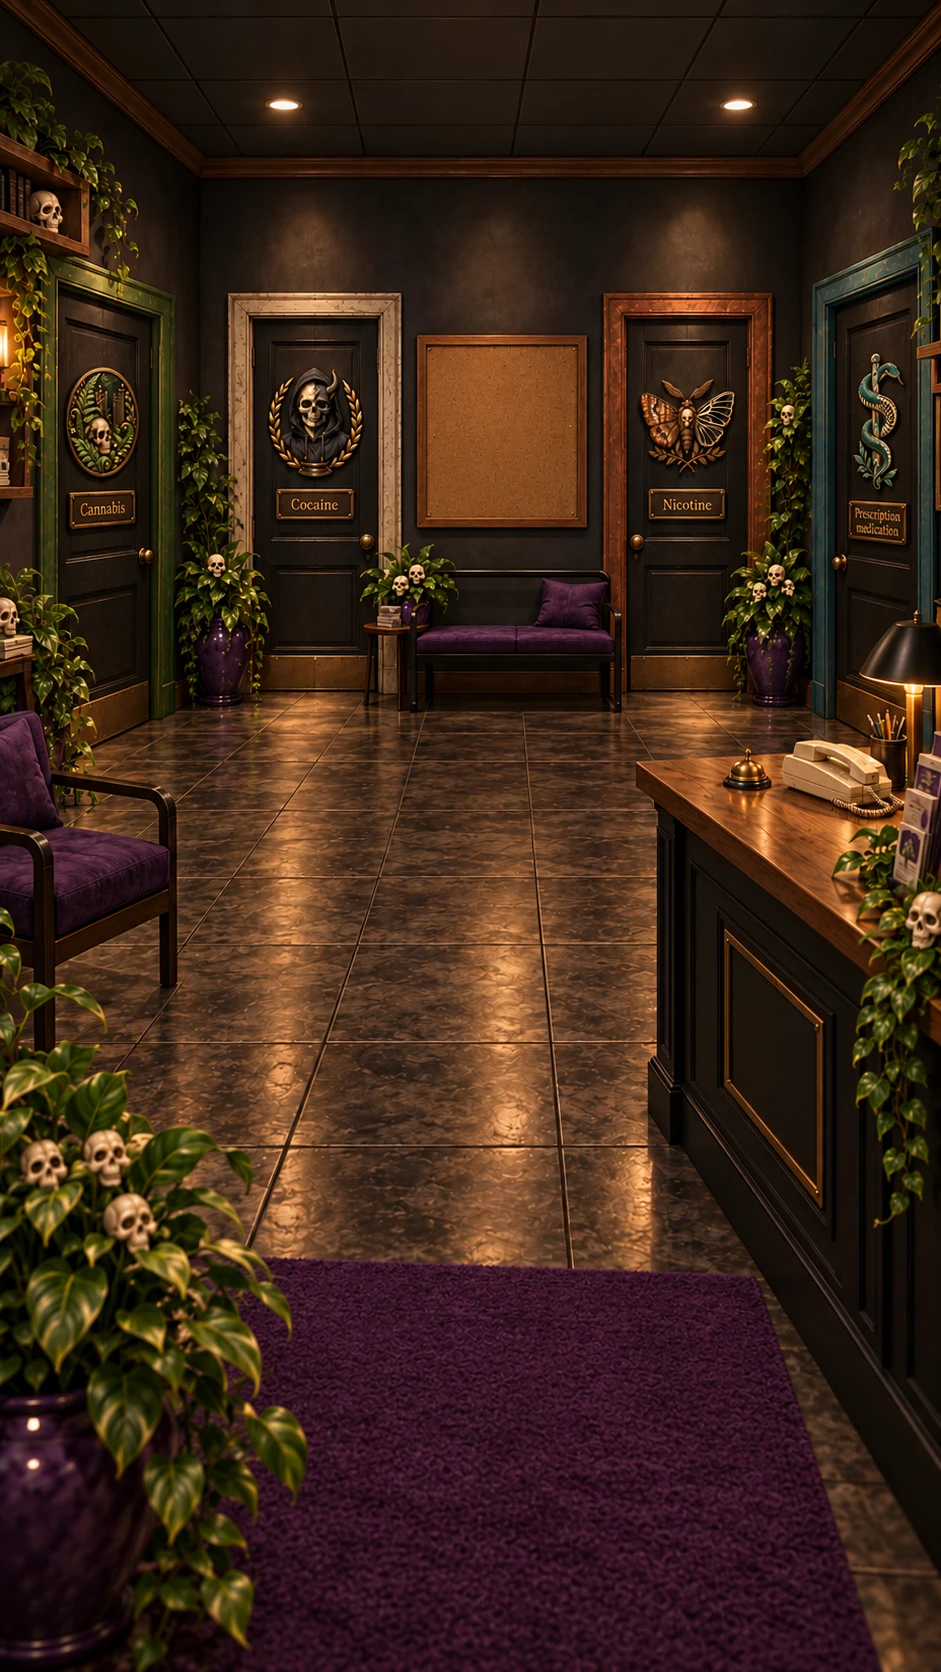
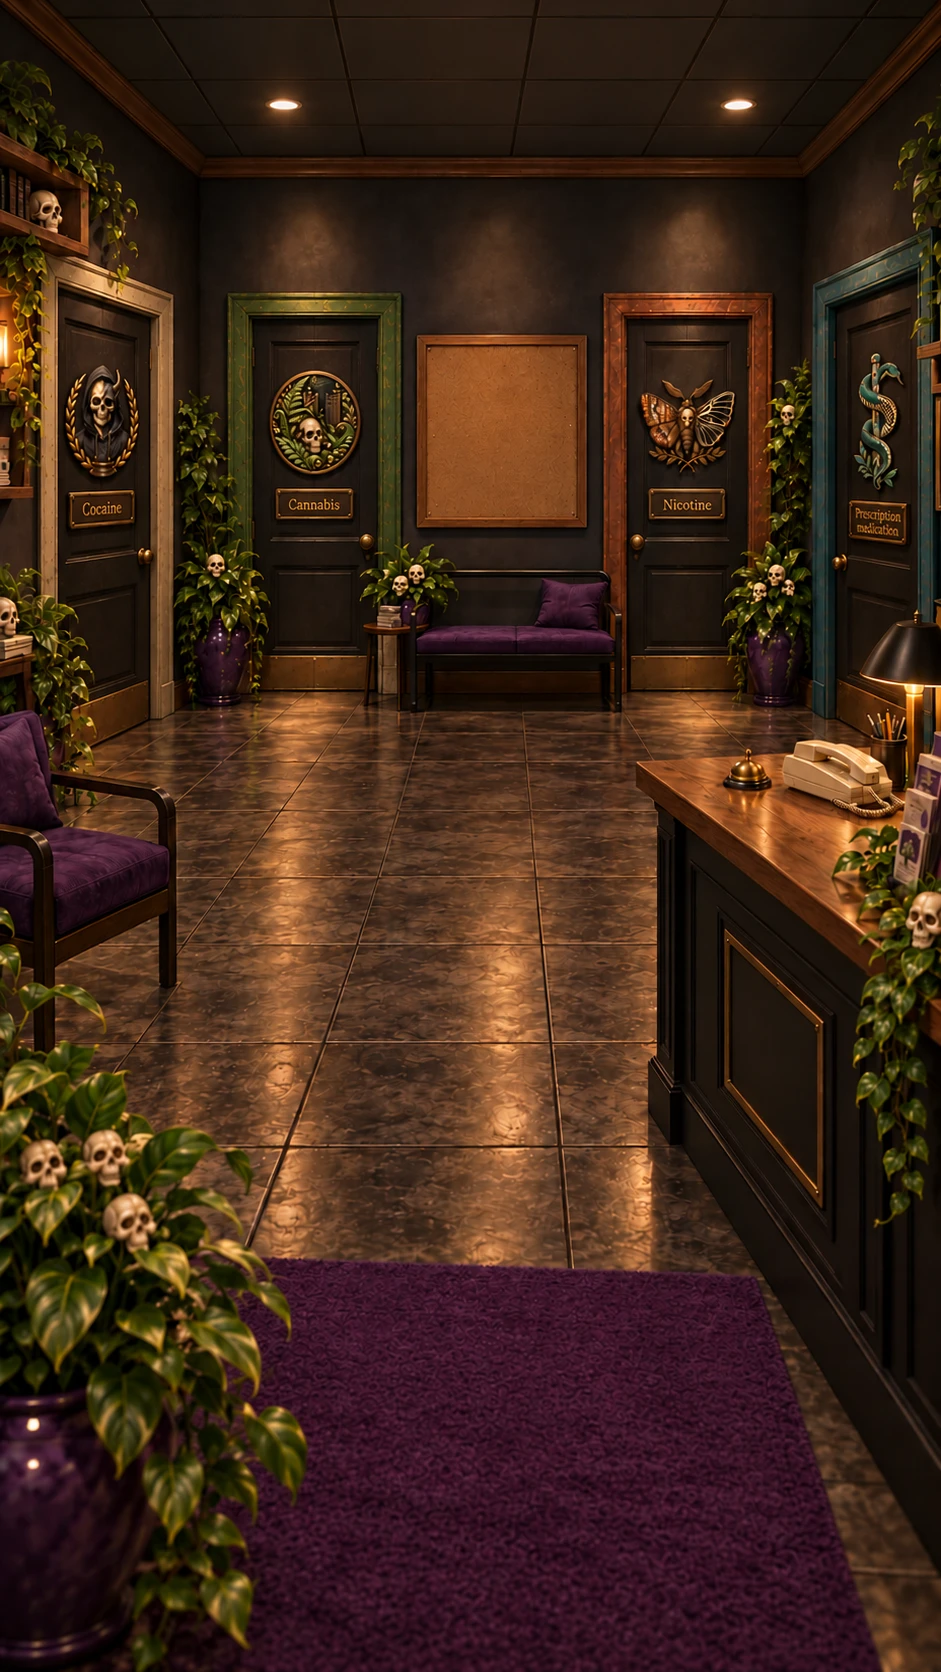
Reception reorder: chronological doors (Cocaine, Cannabis, Nicotine, Rx)
Swapped the two left doors so the reception reads left→right in era
order — Cocano (03-07), Cannano (08-12), Nicono (13-17), Medano
(18-22) — and keeps cannabis + nicotine adjacent. New art in; rc_cocaine
now far-left, rc_cannabis second (each still routes to its own preview).
Glow boxes rough — re-tune in the editor.

Claude-Session: https://claude.ai/code/session_01KKhQMghLUspva6Yzs31jQ3

diff --git a/src/data/hubScene.ts b/src/data/hubScene.ts
@@ -598,12 +598,11 @@ export const HUB_NODES: Record<string, HubNode> = {
     fit: "screen",
     back: "outside",
     hotspots: [
-      // New art — the sibling crests are baked onto the doors now, so no logo
-      // inlays; just the four door glows (relocated) + the central board. Rough
-      // boxes for the new layout — relocate onto the doors in the editor and
-      // export, then I bake the finals.
-      { id: "rc_cannabis", caption: "Cannabis · Cannano — step inside", kind: "glow", tint: "purple", interaction: "destination", glowScale: 0.4, glowMax: 0.4, anchor: { x: 0.5, y: 0.5 }, x: 0.03, y: 0.17, w: 0.14, h: 0.23, action: { kind: "node", node: "cannano_preview" } },
-      { id: "rc_cocaine", caption: "Cocaine · Cocano — step inside", kind: "glow", tint: "purple", interaction: "destination", glowScale: 0.4, glowMax: 0.4, anchor: { x: 0.5, y: 0.5 }, x: 0.26, y: 0.17, w: 0.14, h: 0.22, action: { kind: "node", node: "cocano_preview" } },
+      // New art, doors reordered chronologically L→R: Cocaine, Cannabis,
+      // Nicotine, Prescription. Crests baked onto the doors, so just the four
+      // glows + the board. Rough boxes — relocate in the editor and export.
+      { id: "rc_cocaine", caption: "Cocaine · Cocano — step inside", kind: "glow", tint: "purple", interaction: "destination", glowScale: 0.4, glowMax: 0.4, anchor: { x: 0.5, y: 0.5 }, x: 0.03, y: 0.17, w: 0.14, h: 0.23, action: { kind: "node", node: "cocano_preview" } },
+      { id: "rc_cannabis", caption: "Cannabis · Cannano — step inside", kind: "glow", tint: "purple", interaction: "destination", glowScale: 0.4, glowMax: 0.4, anchor: { x: 0.5, y: 0.5 }, x: 0.26, y: 0.17, w: 0.14, h: 0.22, action: { kind: "node", node: "cannano_preview" } },
       { id: "rc_nicotine", caption: "Nicotine · Nicono — step inside", kind: "glow", tint: "purple", interaction: "destination", glowScale: 0.4, glowMax: 0.4, anchor: { x: 0.5, y: 0.5 }, x: 0.61, y: 0.16, w: 0.14, h: 0.23, action: { kind: "node", node: "nicono_preview" } },
       { id: "rc_prescription", caption: "Prescription medication · Medano — step inside", kind: "glow", tint: "purple", interaction: "destination", glowScale: 0.4, glowMax: 0.4, anchor: { x: 0.5, y: 0.5 }, x: 0.83, y: 0.16, w: 0.15, h: 0.25, action: { kind: "node", node: "medano_preview" } },
       // The central corkboard → "The Grounds" directory.
